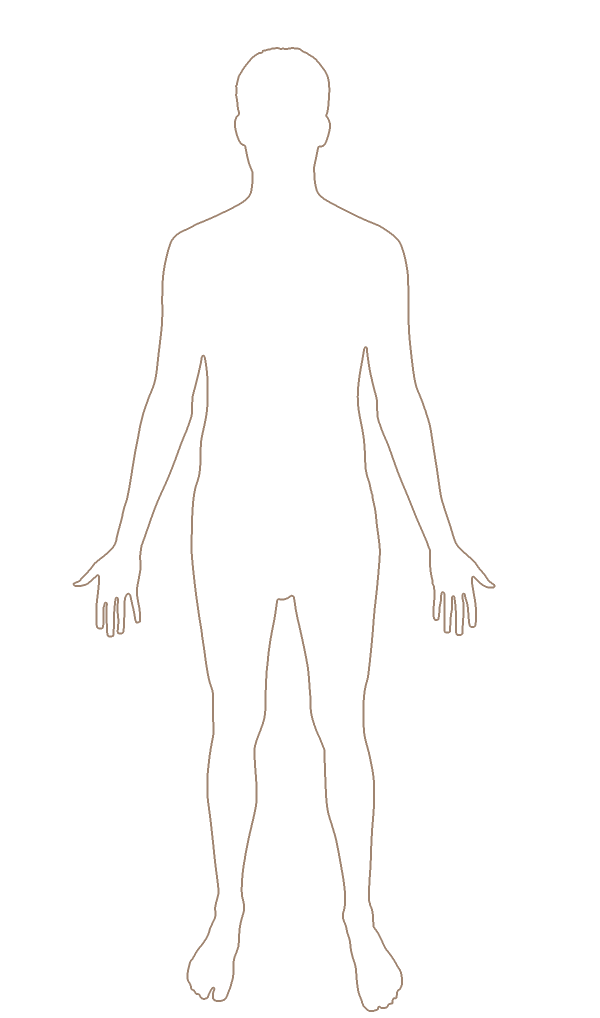
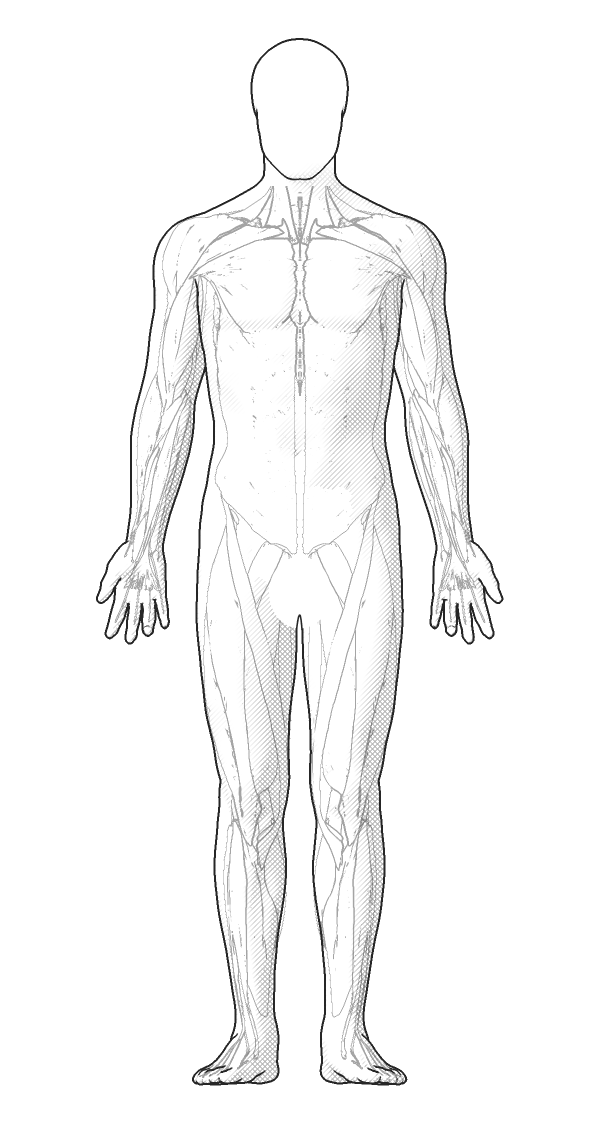
몸 그림: 새 선화 8장으로 교체(두 체형 모두 600×1124), 누르는 자리(zones)·zonesNote를 새 그림 기준으로 (Aside 몸그림_선화_2026-11-01 manifest.json, 2026-11-01)
남성형 캔버스 600×1018 → 600×1124. zones 순서는 manifest 그대로(뒤에 있는 자리가 먼저 눌림: 어깨가 가슴·배 위, 심장이 맨 끝).
테스트: 레이어 파일의 실제 크기 == canvas, zones 그리는 순서 == 데이터 순서.

diff --git a/tests/body-figure.test.tsx b/tests/body-figure.test.tsx
@@ -106,6 +106,44 @@ describe("pressing the figure", () => {
     for (const layer of organLayers(always, null)) expect(layer.src).toMatch(/^\/body-figure\/[a-z]+_[a-z]+_[a-z]+\.webp$/);
   });
 
+  it("draws every layer at the size the zones are measured against, 600×1124 for both figures (line drawings, 2026-11-01)", () => {
+    // the width and height straight from the WebP header, so a redrawn file of another size is caught
+    const webpSize = (file: string) => {
+      const bytes = readFileSync(file);
+      const chunk = bytes.toString("ascii", 12, 16);
+      if (chunk === "VP8X") return { w: 1 + bytes.readUIntLE(24, 3), h: 1 + bytes.readUIntLE(27, 3) };
+      if (chunk === "VP8L") { const bits = bytes.readUInt32LE(21); return { w: 1 + (bits & 0x3fff), h: 1 + ((bits >>> 14) & 0x3fff) }; }
+      if (chunk === "VP8 ") return { w: bytes.readUInt16LE(26) & 0x3fff, h: bytes.readUInt16LE(28) & 0x3fff };
+      throw new Error(`${file}: unknown WebP chunk ${chunk}`);
+    };
+    for (const body of ["female", "male"] as const) {
+      expect(figure.canvas[body]).toEqual({ w: 600, h: 1124 });
+      // the files the screen draws for this figure type: the body and its three organ layers
+      window.localStorage.clear();
+      saveFigurePrefs({ ...DEFAULT_FIGURE_PREFS, body });
+      toBody();
+      const sources = [...document.querySelectorAll(".body-figure img")].map((img) => img.getAttribute("src")!);
+      expect(sources).toHaveLength(4);
+      for (const src of sources) expect(webpSize(`public${src}`), src).toEqual(figure.canvas[body]);
+      cleanup();
+    }
+  });
+
+  it("draws the zones in the data's order, so a later zone sits on top and is hit first: shoulders over chest and belly, the heart last", () => {
+    for (const body of ["female", "male"] as const) {
+      const order = zonesOf(body).map((zone) => zone.part ?? zone.region);
+      for (const shoulder of ["leftShoulder", "rightShoulder"]) {
+        expect(order.indexOf(shoulder)).toBeGreaterThan(order.indexOf("breath"));
+        expect(order.indexOf(shoulder)).toBeGreaterThan(order.indexOf("belly"));
+      }
+      expect(order[order.length - 1]).toBe("heart");
+    }
+    toBody();
+    const rendered = within(screen.getByRole("group", { name: ko.body.figure.ariaLabel })).getAllByRole("button").map((button) => button.getAttribute("aria-label"));
+    const regionName = (id: string) => bodySignals.regions[REGION_IDS.indexOf(id)];
+    expect(rendered).toEqual(zonesOf(DEFAULT_FIGURE_PREFS.body).map((zone) => zone.part ? `${regionName(zone.region)} · ${ko.body.figure.part[zone.part]}` : regionName(zone.region)));
+  });
+
   it("places every zone by its centre inside the figure", () => {
     for (const body of ["female", "male"] as const) {
       for (const zone of zonesOf(body)) {
